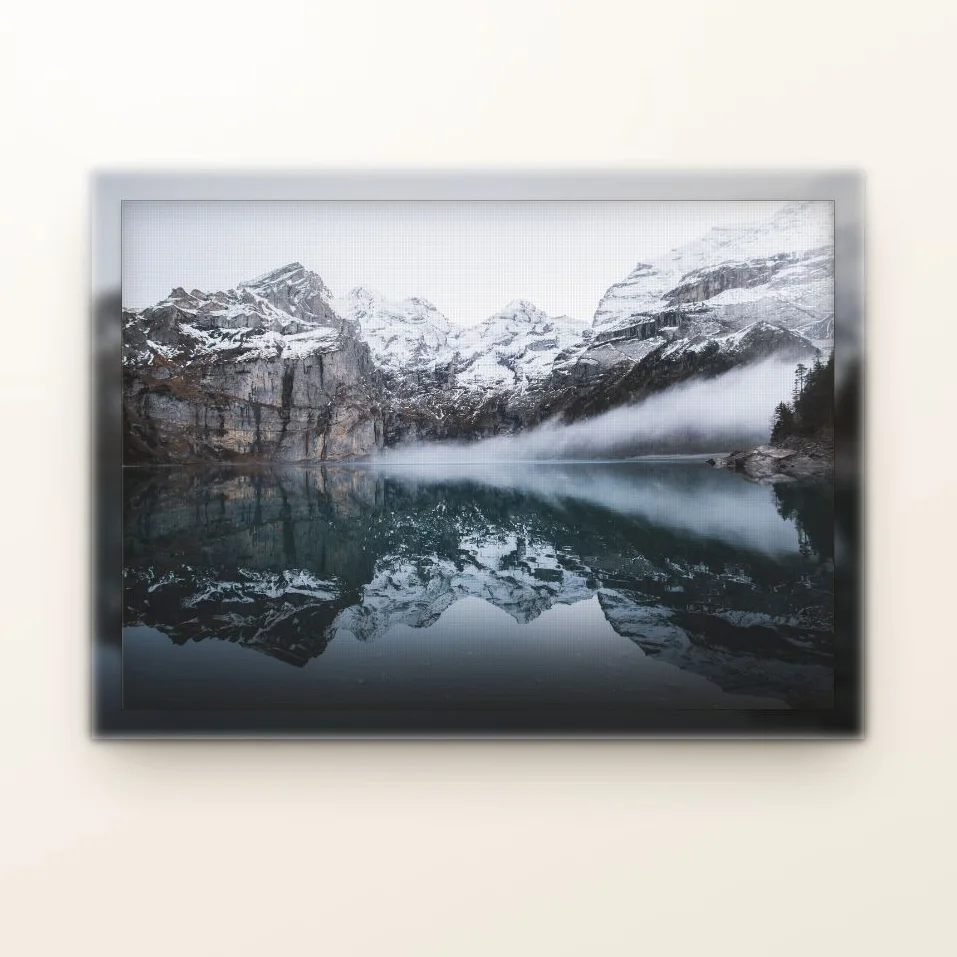
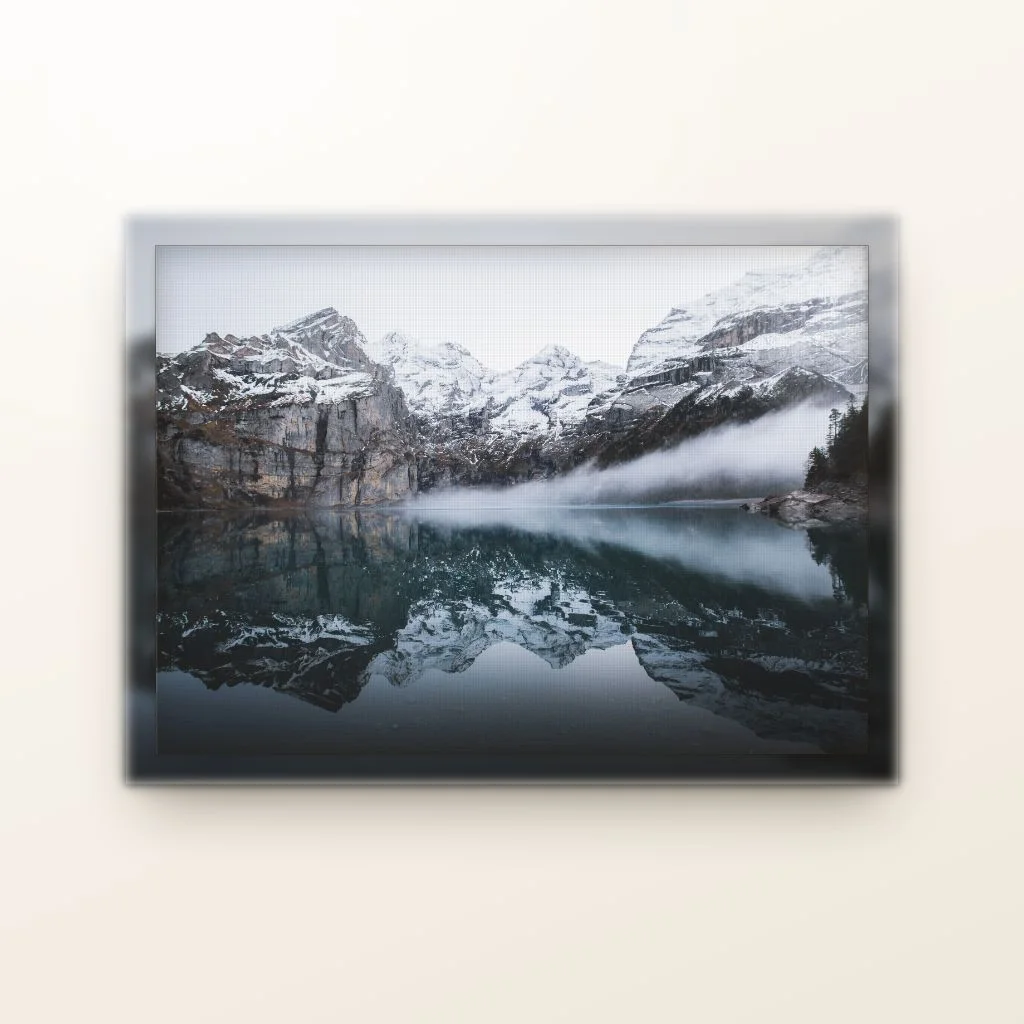
Re-crop from the originals with safe padding
The first pass cropped a crop: the script read from the live site, which by then
was already serving the previous output, so the second run tightened images that
were already tight (calendar 721 -> "from 721x721" gave it away).

Now it reads the 1024px originals from git, served over file:// with
--allow-file-access-from-files, and pads the bounding box by 18% of the longest
side. That is deliberately larger than the worst case box crop (11.25% landscape
/ 10% portrait), so the frame eats padding instead of slicing the product - at
1.25% of clip on a product photo, "almost right" is not right.

Changed region(s): [[0.0606, 0.1515, 0.9394, 0.7879]]

diff --git a/index.html b/index.html
@@ -175,7 +175,7 @@
             </div>
           </div>
           <figure class="hero-media">
-            <picture><source type="image/webp" srcset="img/photobook.webp"><img src="img/photobook.jpg" alt="Hardcover photo book with a printed photograph" width="792" height="792" decoding="async"></picture>
+            <picture><source type="image/webp" srcset="img/photobook.webp"><img src="img/photobook.jpg" alt="Hardcover photo book with a printed photograph" width="898" height="898" decoding="async"></picture>
           </figure>
         </div>
       </article>
@@ -192,7 +192,7 @@
             </div>
           </div>
           <figure class="hero-media">
-            <picture><source type="image/webp" srcset="img/canvas.webp"><img src="img/canvas.jpg" alt="Gallery-wrapped canvas print on a wall" width="957" height="957" decoding="async"></picture>
+            <picture><source type="image/webp" srcset="img/canvas.webp"><img src="img/canvas.jpg" alt="Gallery-wrapped canvas print on a wall" width="1024" height="1024" decoding="async"></picture>
           </figure>
         </div>
       </article>
@@ -209,7 +209,7 @@
             </div>
           </div>
           <figure class="hero-media">
-            <picture><source type="image/webp" srcset="img/calendar.webp"><img src="img/calendar.jpg" alt="Wall photo calendar with a printed photograph" width="721" height="721" decoding="async"></picture>
+            <picture><source type="image/webp" srcset="img/calendar.webp"><img src="img/calendar.jpg" alt="Wall photo calendar with a printed photograph" width="817" height="817" decoding="async"></picture>
           </figure>
         </div>
       </article>
@@ -254,7 +254,7 @@
     <div class="wrap">
       <div class="bento">
       <a class="tile tile-big reveal reveal-scale accent-green" href="https://wa.me/358442715477?text=Hello%20Feven%27s%20Prints%20-%20I%27d%20like%20to%20order%20a%20canvas%20print." target="_blank" rel="noopener">
-        <figure class="tile-media"><picture><source type="image/webp" srcset="img/canvas.webp"><img src="img/canvas.jpg" alt="Framed canvas print of a family portrait in a living room" width="957" height="957" loading="lazy" decoding="async"></picture></figure>
+        <figure class="tile-media"><picture><source type="image/webp" srcset="img/canvas.webp"><img src="img/canvas.jpg" alt="Framed canvas print of a family portrait in a living room" width="1024" height="1024" loading="lazy" decoding="async"></picture></figure>
         <div class="tile-cap">
           <h3 data-en="Canvas prints" data-am="የካንቫስ ህትመት">Canvas prints</h3>
           <p data-en="Gallery-wrapped canvas, every size up to 120 cm." data-am="እስከ 120 ሳ.ሜ ድረስ በሁሉም መጠን።">Gallery-wrapped canvas, every size up to 120 cm.</p>
@@ -262,7 +262,7 @@
         </div>
       </a>
       <a class="tile tile-tall reveal reveal-scale accent-red" href="https://wa.me/358442715477?text=Hello%20Feven%27s%20Prints%20-%20I%27d%20like%20to%20order%20a%20photo%20book." target="_blank" rel="noopener">
-        <figure class="tile-media"><picture><source type="image/webp" srcset="img/photobook.webp"><img src="img/photobook.jpg" alt="Stack of premium photo books on a wooden desk" width="792" height="792" loading="lazy" decoding="async"></picture></figure>
+        <figure class="tile-media"><picture><source type="image/webp" srcset="img/photobook.webp"><img src="img/photobook.jpg" alt="Stack of premium photo books on a wooden desk" width="898" height="898" loading="lazy" decoding="async"></picture></figure>
         <div class="tile-cap">
           <h3 data-en="Photo books" data-am="የፎቶ መጽሐፍ">Photo books</h3>
           <p data-en="Hardcover and softcover, 20 to 80 pages." data-am="ከ20 እስከ 80 ገጽ።">Hardcover and softcover, 20 to 80 pages.</p>
@@ -270,7 +270,7 @@
         </div>
       </a>
       <a class="tile reveal reveal-scale accent-yellow" href="https://wa.me/358442715477?text=Hello%20Feven%27s%20Prints%20-%20I%27d%20like%20to%20order%20a%20wall%20calendar." target="_blank" rel="noopener">
-        <figure class="tile-media"><picture><source type="image/webp" srcset="img/calendar.webp"><img src="img/calendar.jpg" alt="Wall calendar with scenic photography pages" width="721" height="721" loading="lazy" decoding="async"></picture></figure>
+        <figure class="tile-media"><picture><source type="image/webp" srcset="img/calendar.webp"><img src="img/calendar.jpg" alt="Wall calendar with scenic photography pages" width="817" height="817" loading="lazy" decoding="async"></picture></figure>
         <div class="tile-cap">
           <h3 data-en="Wall calendars" data-am="የግድግዳ የቀን መቁጠሪያ">Wall calendars</h3>
           <p data-en="Your photos, all twelve months." data-am="ፎቶዎችዎ ለ12 ወራት።">Your photos, all twelve months.</p>
@@ -278,7 +278,7 @@
         </div>
       </a>
       <a class="tile reveal reveal-scale accent-green" href="https://wa.me/358442715477?text=Hello%20Feven%27s%20Prints%20-%20I%27d%20like%20to%20order%20a%20photo%20mug." target="_blank" rel="noopener">
-        <figure class="tile-media"><picture><source type="image/webp" srcset="img/mug.webp"><img src="img/mug.jpg" alt="White ceramic mug printed with a family photo" width="537" height="537" loading="lazy" decoding="async"></picture></figure>
+        <figure class="tile-media"><picture><source type="image/webp" srcset="img/mug.webp"><img src="img/mug.jpg" alt="White ceramic mug printed with a family photo" width="607" height="607" loading="lazy" decoding="async"></picture></figure>
         <div class="tile-cap">
           <h3 data-en="Photo mugs" data-am="የፎቶ ሙግ">Photo mugs</h3>
           <p data-en="A daily reminder, dishwasher safe." data-am="ለዕለታዊ አገልግሎት የሚመች።">A daily reminder, dishwasher safe.</p>
@@ -286,7 +286,7 @@
         </div>
       </a>
       <a class="tile reveal reveal-scale accent-red" href="https://wa.me/358442715477?text=Hello%20Feven%27s%20Prints%20-%20I%27d%20like%20to%20order%20a%20framed%20print." target="_blank" rel="noopener">
-        <figure class="tile-media"><picture><source type="image/webp" srcset="img/frames.webp"><img src="img/frames.jpg" alt="Gallery wall of framed photo prints in mixed sizes" width="899" height="899" loading="lazy" decoding="async"></picture></figure>
+        <figure class="tile-media"><picture><source type="image/webp" srcset="img/frames.webp"><img src="img/frames.jpg" alt="Gallery wall of framed photo prints in mixed sizes" width="1019" height="1019" loading="lazy" decoding="async"></picture></figure>
         <div class="tile-cap">
           <h3 data-en="Framed prints" data-am="የተከፈፈ ህትመት">Framed prints</h3>
           <p data-en="Ready-to-hang, classic and modern frames." data-am="ለመስቀል ዝግጁ የሆኑ ክፈፎች።">Ready-to-hang, classic and modern frames.</p>
@@ -666,11 +666,11 @@
         <p class="wall-note reveal" data-en="A rough idea of how a print sits on a wall, and how big each size feels. Send us a photo of your wall and we will show you properly." data-am="የእያንዳንዱ ህትመት መጠን በግድግዳ ላይ እንዴት እንደሚታይ ግምት። የግድግዳዎን ፎቶ ይላኩልን፣ እኛ በትክክል እናሳያለን።">A rough idea of how a print sits on a wall, and how big each size feels. Send us a photo of your wall and we will show you properly.</p>
     <div class="wall-stage">
       <figure class="hung hung-a reveal reveal-scale accent-green">
-        <picture><source type="image/webp" srcset="img/canvas.webp"><img src="img/canvas.jpg" alt="Large canvas print hung on a wall" width="957" height="957" loading="lazy" decoding="async"></picture>
+        <picture><source type="image/webp" srcset="img/canvas.webp"><img src="img/canvas.jpg" alt="Large canvas print hung on a wall" width="1024" height="1024" loading="lazy" decoding="async"></picture>
         <figcaption><span data-en="Canvas print" data-am="የካንቫስ ህትመት">Canvas print</span><em data-en="60 × 80 cm" data-am="60 × 80 ሳ.ሜ">60 × 80 cm</em></figcaption>
       </figure>
       <figure class="hung hung-b reveal reveal-scale accent-red">
-        <picture><source type="image/webp" srcset="img/frames.webp"><img src="img/frames.jpg" alt="Set of framed prints hung together" width="899" height="899" loading="lazy" decoding="async"></picture>
+        <picture><source type="image/webp" srcset="img/frames.webp"><img src="img/frames.jpg" alt="Set of framed prints hung together" width="1019" height="1019" loading="lazy" decoding="async"></picture>
         <figcaption><span data-en="Framed set" data-am="የተከፈፉ ህትመቶች">Framed set</span><em data-en="from 30 × 40 cm" data-am="ከ30 × 40 ሳ.ሜ">from 30 × 40 cm</em></figcaption>
       </figure>
       <figure class="hung hung-c reveal reveal-scale accent-yellow">
